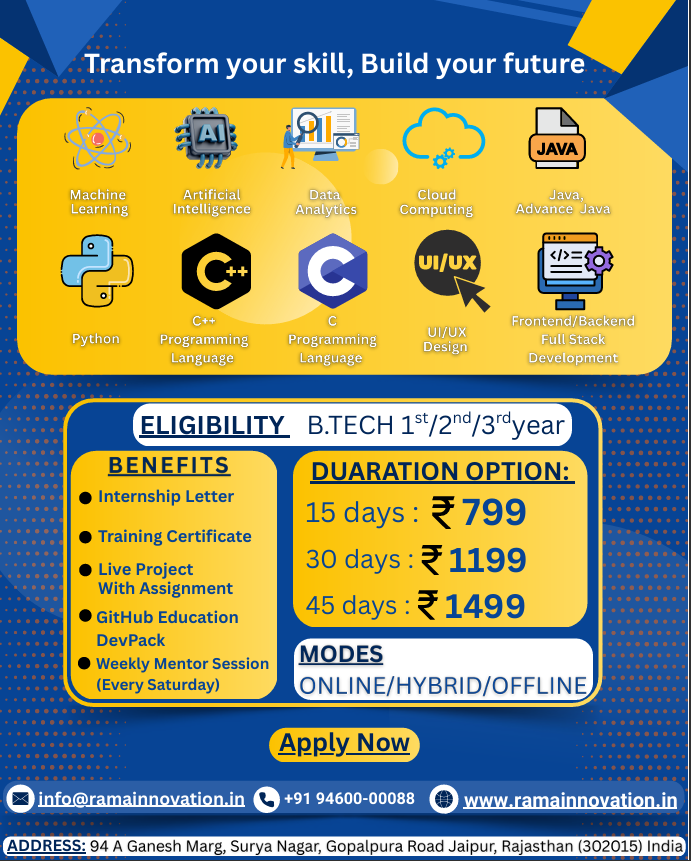
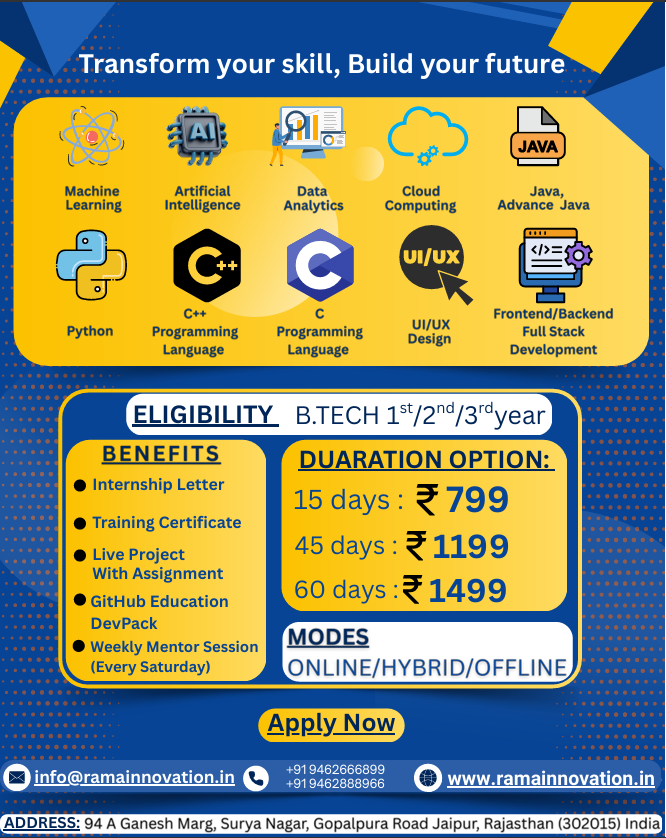
Internship main photo

Changed region(s): [[0.0, 0.0, 1.0, 1.0]]

diff --git a/internship.html b/internship.html
@@ -269,8 +269,8 @@
           <h3>Duration Options</h3>
           <ul>
             <li>15 days: ₹799</li>
-            <li>30 days: ₹1199</li>
-            <li>45 days: ₹1499</li>
+            <li>45 days: ₹1199</li>
+            <li>60 days: ₹1499</li>
           </ul>
         </div>
       </div>
